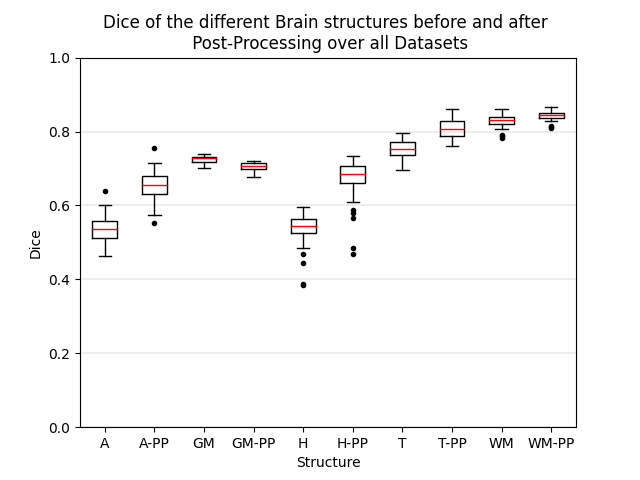
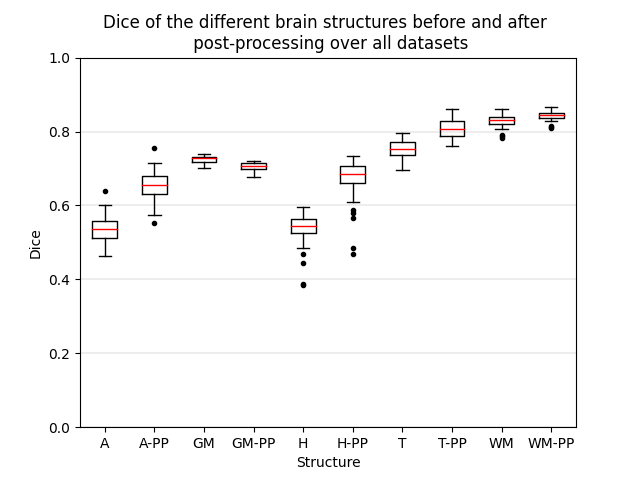
hmb

Changed region(s): [[0.2812, 0.0312, 0.875, 0.125]]

diff --git a/bin/Hyperparameters.py b/bin/Hyperparameters.py
@@ -3,15 +3,21 @@ import numpy as np
 import datetime
 import matplotlib.dates as mdates
 from matplotlib.ticker import AutoMinorLocator
+import os
 
-x = [0 ,1, 2, 5, 10, 20, 50, 100, 200]
-D = [0, 0.45, 0.55, 0.625, 0.675, 0.7, 0.71, 0.715, 0.716]
-H = [20 ,17, 13, 10, 8, 7, 6.8, 6.78, 6.77]
+# Saving
+output_directory = ('C:/Users/nickr/OneDrive/Dokumente/GitHub/MIALab_project/bin/mia-result/09_Hyperparameter')
+
+#Constant depth = 10
+x = [0, 1, 2, 5, 10, 20, 50, 100]
+D = [0, 0.598684246, 0.605940166, 0.613891804, 0.618256249, 0.618315119, 0.618264554, 0.619078745]
+H = [18, 15.01647387, 13.48346507, 11.88461035, 10.70652581, 10.62143896, 10.21081322, 10.17405875]
 
 
 fig, ax1 = plt.subplots()
 
 color = 'tab:red'
+
 ax1.set_xlabel('# Estimators')
 ax1.set_ylabel('Dice', color=color)
 plt.ylim(0, 1)
@@ -24,8 +30,43 @@ color = 'tab:blue'
 ax2.set_ylabel('Hausdorff distance', color=color)  # we already handled the x-label with ax1
 ax2.plot(x,H, marker = '^', color = 'b')
 ax2.tick_params(axis='y', labelcolor=color)
-
+plt.title('Constant tree depth = 10')
 plt.grid(color = 'k', linewidth = 0.1, axis='both')
 
 fig.tight_layout()  # otherwise the right y-label is slightly clipped
-plt.show()
+
+
+file_path = os.path.join(output_directory, f'Const_tree_depth_DICE.png')
+plt.savefig(file_path)
+plt.close()
+
+#Constant Estimator = 20
+x = [0, 1, 2, 5, 10, 20, 50, 100]
+D = [0, 0.090607292, 0.294794457, 0.366511281, 0.618315119, 0.67789637, 0.682486692, 0.682486692]
+H = [25, 25, 25, 22.8762013, 10.62143896, 9.004471228, 8.986045442, 8.986045442]
+
+
+fig, ax1 = plt.subplots()
+
+color = 'tab:red'
+ax1.set_xlabel('Tree depth')
+ax1.set_ylabel('Dice', color=color)
+plt.ylim(0, 1)
+ax1.plot(x,D, marker = 'o', color = 'r')
+ax1.tick_params(axis='y', labelcolor=color)
+
+ax2 = ax1.twinx()  # instantiate a second axes that shares the same x-axis
+
+color = 'tab:blue'
+ax2.set_ylabel('Hausdorff distance', color=color)  # we already handled the x-label with ax1
+ax2.plot(x,H, marker = '^', color = 'b')
+ax2.tick_params(axis='y', labelcolor=color)
+plt.title('Constant # of estimators = 10')
+plt.grid(color = 'k', linewidth = 0.1, axis='both')
+
+fig.tight_layout()  # otherwise the right y-label is slightly clipped
+
+
+file_path = os.path.join(output_directory, f'Const_num_estimators_DICE.png')
+plt.savefig(file_path)
+plt.close()

diff --git a/bin/Boxplot_Nic.py b/bin/Boxplot_Nic.py
@@ -12,14 +12,14 @@ output_directory = ('C:/Users/nickr/OneDrive/Dokumente/GitHub/MIALab_project/bin
 
 
 #load data
-data = pd.read_csv('C:/Users/nickr/OneDrive/Dokumente/GitHub/MIALab_project/bin/mia-result/07_Boxplots/Overall_Dataset_DICE.csv', sep = ';')
+data = pd.read_csv('C:/Users/nickr/OneDrive/Dokumente/GitHub/MIALab_project/bin/mia-result/07_Boxplots/Structures_all_Datasets_STD.csv', sep = ';')
 print(data)
 
 
 
 labels = ('A', 'A-PP', 'GM', 'GM-PP', 'H', 'H-PP', 'T', 'T-PP', 'WM','WM-PP')
 #labels = ('1', '1-PP', '2', '2-PP', '3', '3-PP', '4', '4-PP', '5', '5-PP')
-labels = ('Overall', 'Overall-PP')
+#labels = ('Overall', 'Overall-PP')
 
 Boxplot = plt.boxplot(data, labels = labels)
 
@@ -34,18 +34,19 @@ plt.setp(Boxplot['fliers'], marker='.')
 plt.setp(Boxplot['fliers'], markerfacecolor='black')
 plt.setp(Boxplot['fliers'], alpha=1)
 plt.grid(color = 'k', linewidth = 0.1, axis = 'y')
+plt.xlabel('Structure')
 plt.ylabel('STD')
 plt.ylim(0, .1)
-plt.ylabel('Dice')
-plt.ylim(0, 1)
-plt.xlabel('Structure')
+#plt.ylabel('Dice')
+#plt.ylim(0, 1)
 
-plt.title("Standart deviation of the different Brain structures before and after \n post-processing over all Datasets")
-#plt.title("Dice of the different Datasets before and after \n Post-Processing")
-plt.title("\nOverall Dice before and after post-prossesing")
+
+plt.title("Standard deviation of the different brain structures before and after \n post-processing over all datasets")
+#plt.title("Dice of the different Datasets before and after \n post-processing")
+#plt.title("Overall dice before and after \n post-processing")
 
 
 #plt.show()
-file_path = os.path.join(output_directory, f'Overall_Datasets_DICE.png')
+file_path = os.path.join(output_directory, f'Structures_all_Datasets_STD.png')
 plt.savefig(file_path)
 plt.close()
